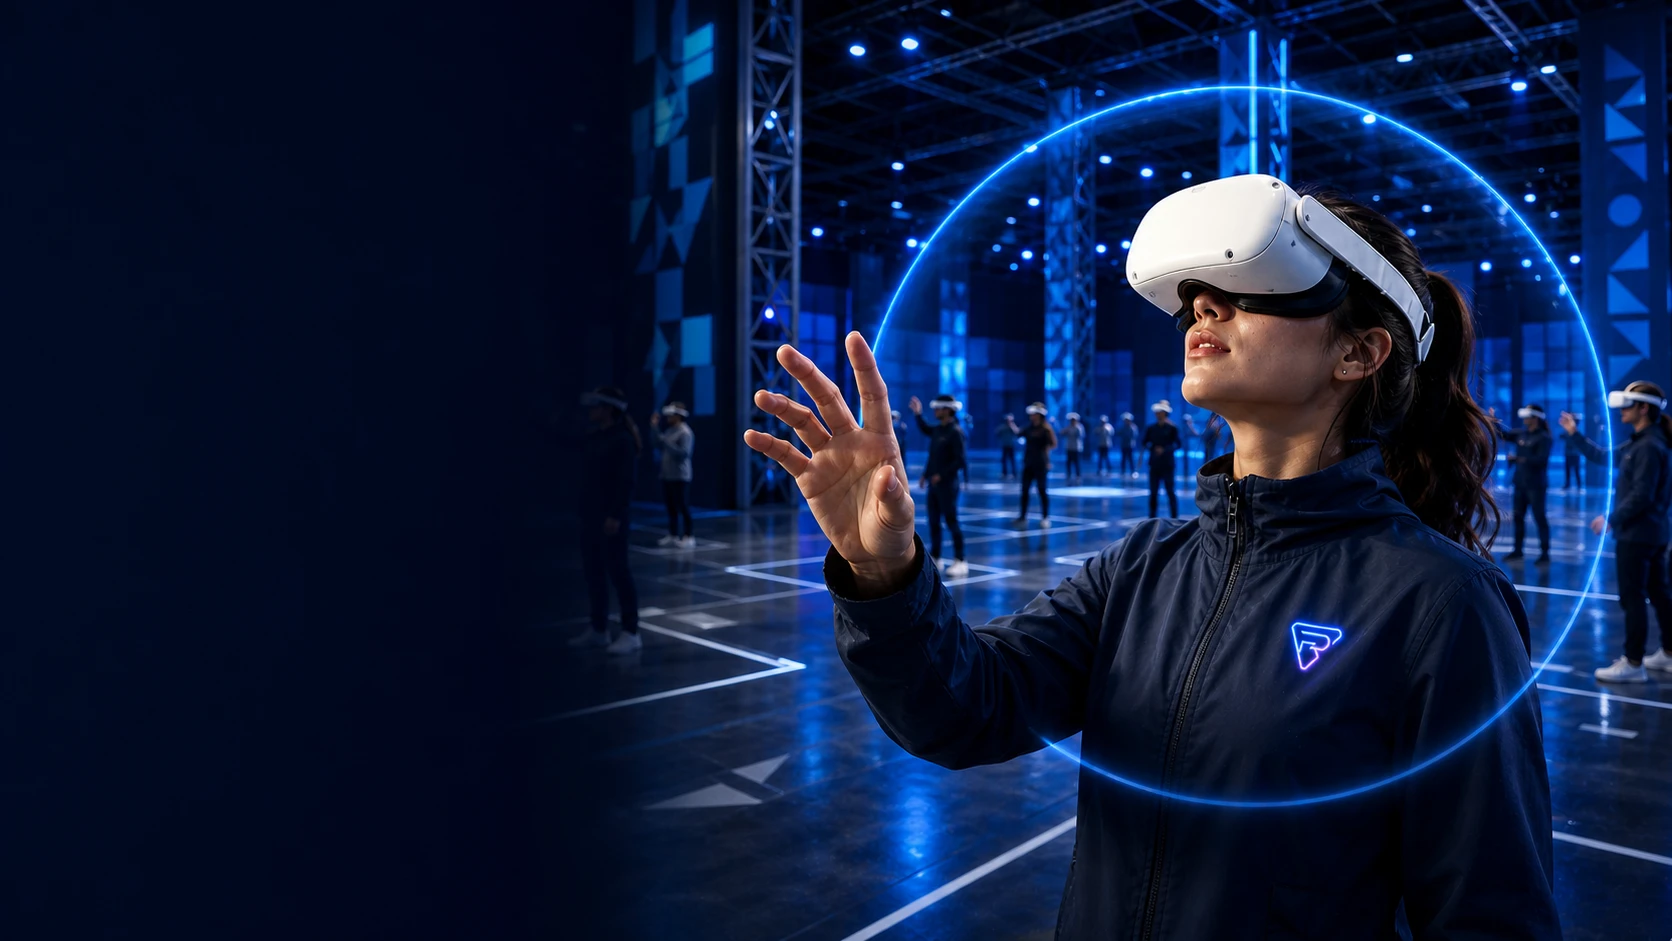
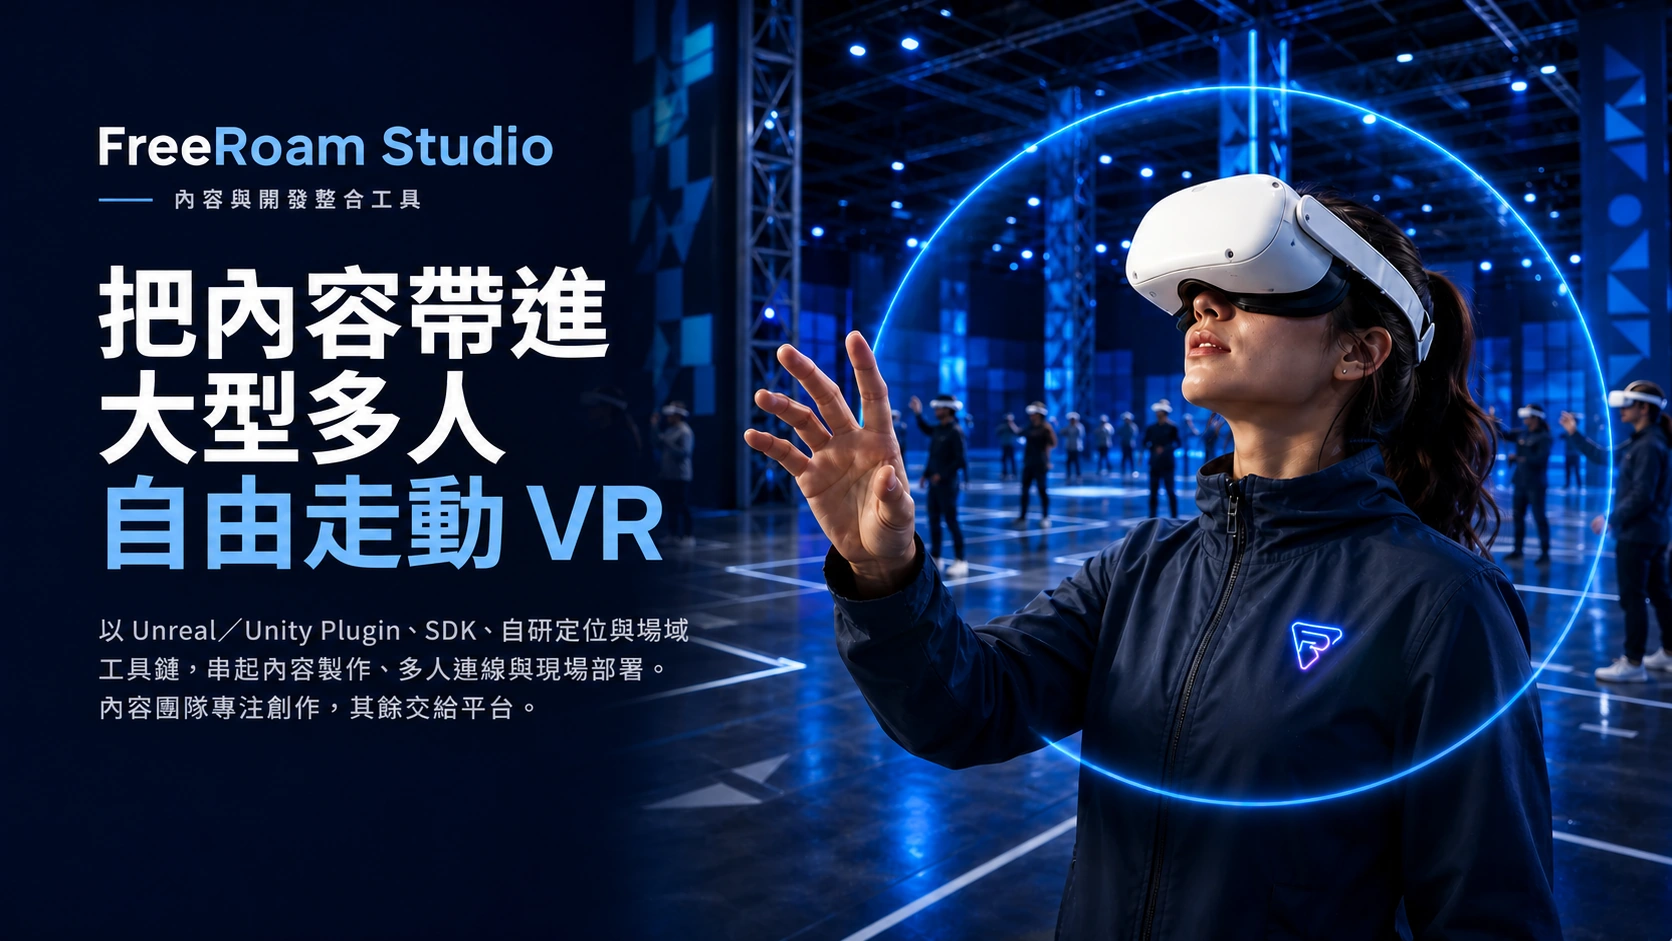
docs: 將 FreeRoam Studio 官網文案整合進首頁主視覺

diff --git a/README.md b/README.md
@@ -2,7 +2,7 @@
 
 **FreeRoam Studio** 是 Moonshine FreeRoam 多人自由走動式 VR 平台中，負責內容與開發整合的模組。**MultiVR Plugin 是 FreeRoam Studio 在 Unreal Engine 5 上的核心插件**，讓開發者能將 UE 遊戲接入場館後台，把虛擬場景對齊實體場地，取得同場玩家的位置，並整合頭盔的透視與追蹤功能。[Moonshine FreeRoam 平台介紹](https://freeroam.moonshine.tw/zh-tw/)
 
-![FreeRoam Studio 場域示意，多位參與者戴著 VR 頭盔在同一個實體空間活動](docs/images/multivr/freeroam-studio.webp)
+![FreeRoam Studio 內容與開發整合工具。把內容帶進大型多人自由走動 VR。以 Unreal／Unity Plugin、SDK、自研定位與場域工具鏈，串起內容製作、多人連線與現場部署。內容團隊專注創作，其餘交給平台。](docs/images/multivr/freeroam-studio.webp)
 
 ## 主要能力
 
